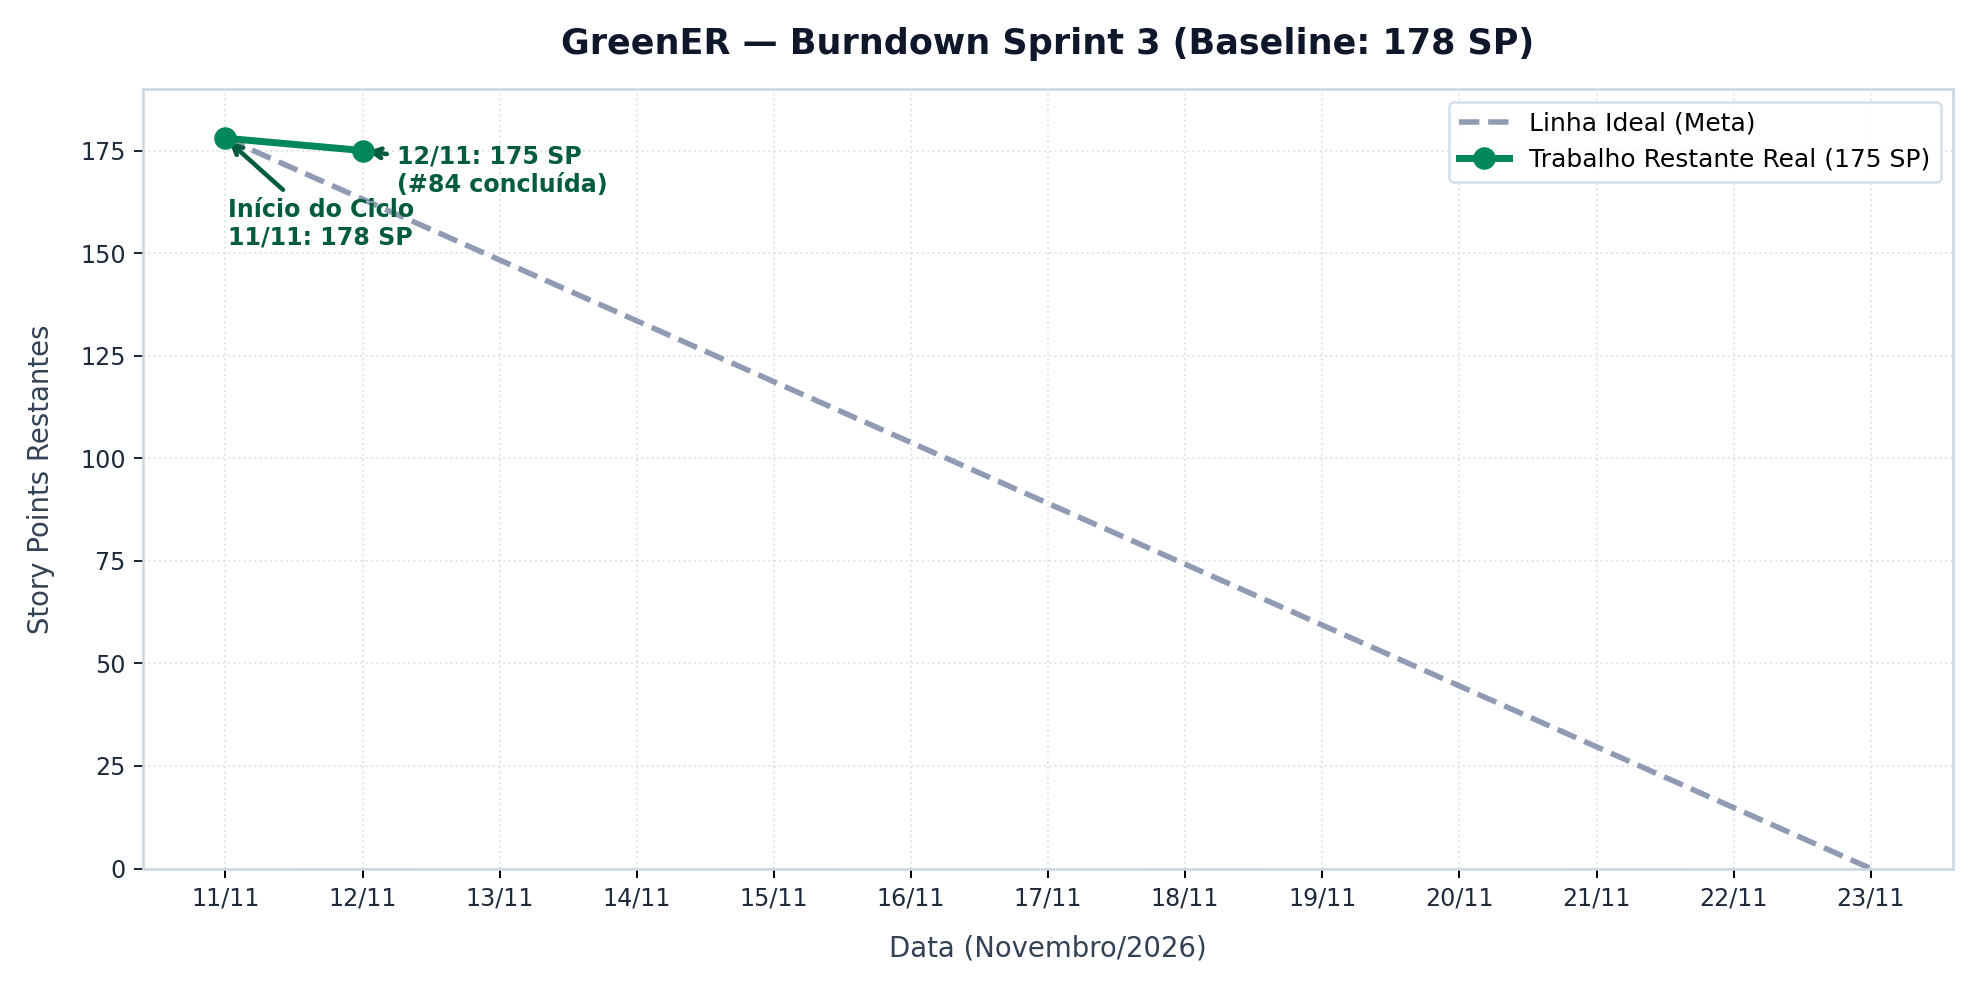
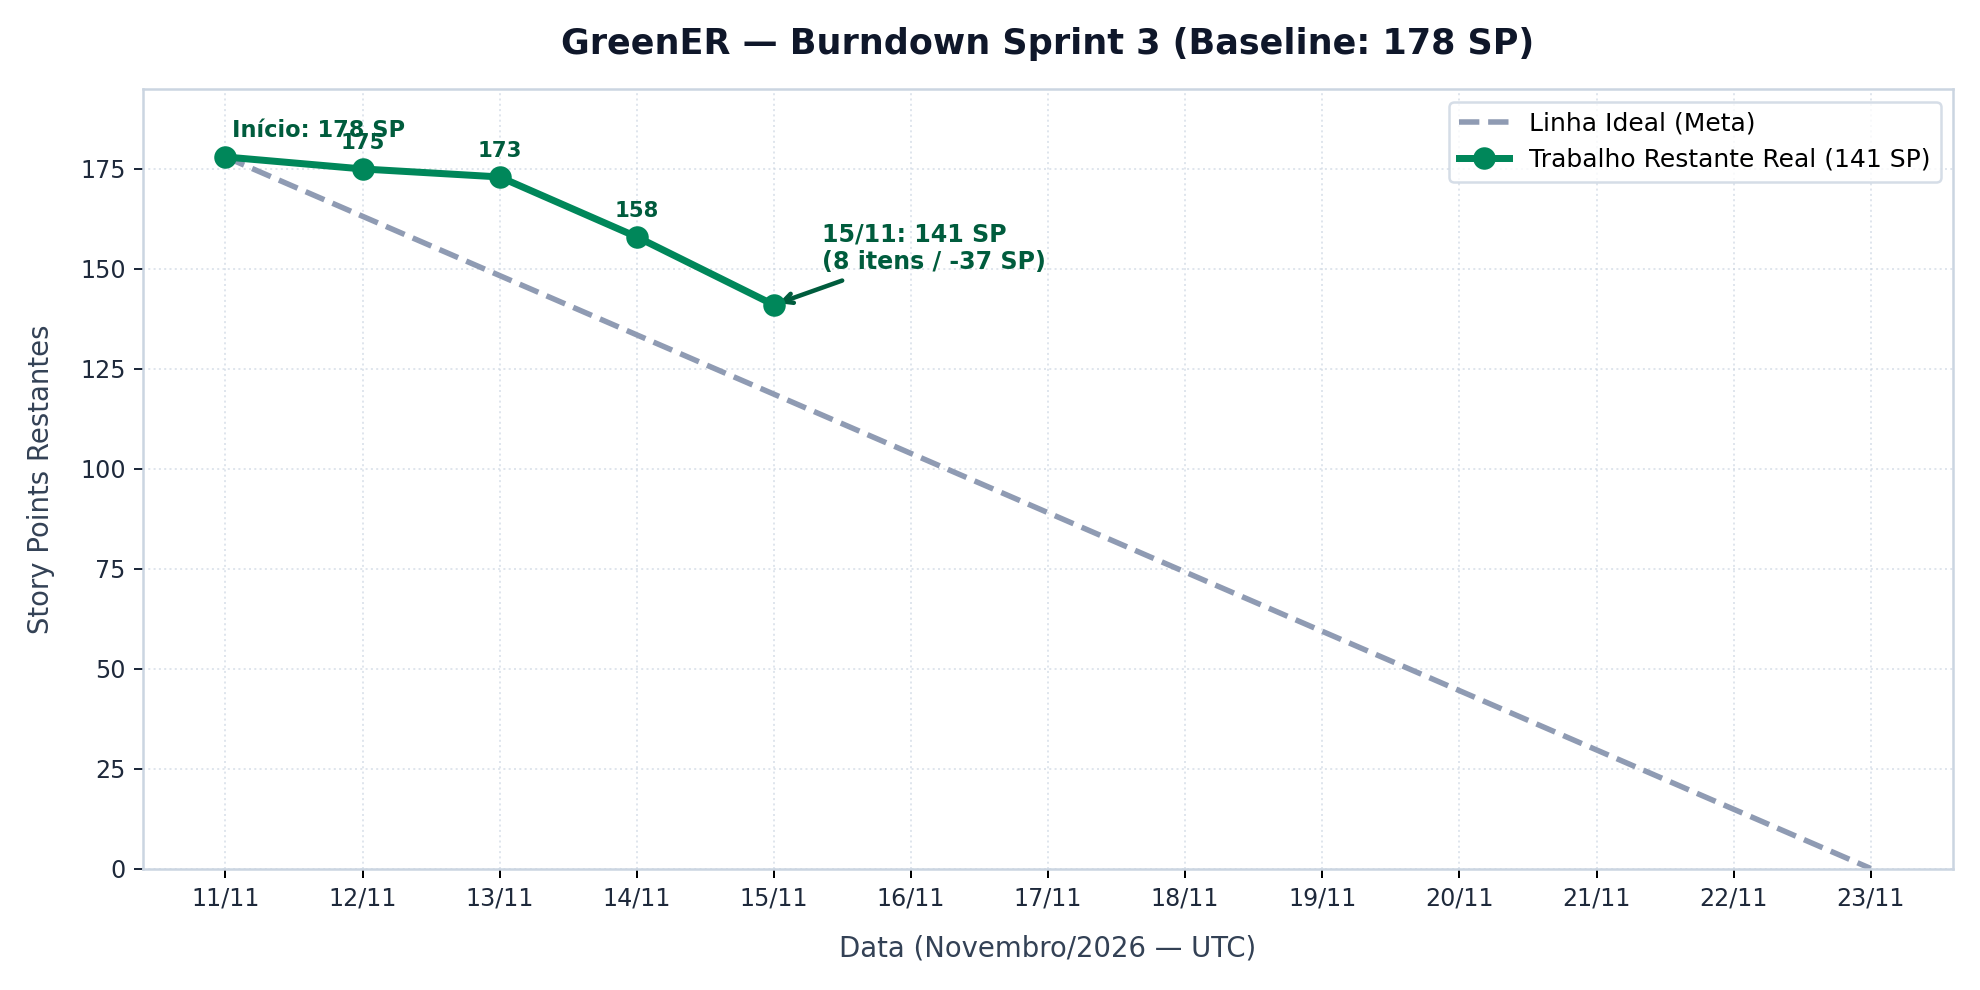
docs(burndown): atualiza burndown para 141 SP e registra TDD na DoD

diff --git a/docs/sprints/sprint-3.md b/docs/sprints/sprint-3.md
@@ -32,20 +32,20 @@ A tabela abaixo lista os 51 itens que compõem o escopo devedor da Sprint 3:
 
 | Issue | Item | SP | Responsável | Epic | Situação |
 | :---: | :--- | :---: | :--- | :--- | :---: |
-| [#79](https://github.com/abpundefined/3DSM-ABP-UNDEFINED/issues/79) | [TASK] Repository para ServicosService | 5 | Pedro Gomes | #37 | Backlog |
+| [#79](https://github.com/abpundefined/3DSM-ABP-UNDEFINED/issues/79) | [TASK] Repository para ServicosService | 5 | Pedro Gomes | #37 | Done |
 | [#84](https://github.com/abpundefined/3DSM-ABP-UNDEFINED/issues/84) | [TASK] Periodização no backend (PeriodoDto) | 3 | Marcus Nascimento | #35 | Done |
-| [#85](https://github.com/abpundefined/3DSM-ABP-UNDEFINED/issues/85) | [TASK] Navegação, rotas e biblioteca de gráficos | 2 | Nadla Ferreira | #35 | Backlog |
-| [#86](https://github.com/abpundefined/3DSM-ABP-UNDEFINED/issues/86) | [TASK] Seletor de período compartilhado (frontend) | 5 | Nadla Ferreira | #35 | Backlog |
-| [#88](https://github.com/abpundefined/3DSM-ABP-UNDEFINED/issues/88) | [TASK] Endpoint GET /ranking | 3 | Marcus Nascimento | #35 | Backlog |
+| [#85](https://github.com/abpundefined/3DSM-ABP-UNDEFINED/issues/85) | [TASK] Navegação, rotas e biblioteca de gráficos | 2 | Nadla Ferreira | #35 | Done |
+| [#86](https://github.com/abpundefined/3DSM-ABP-UNDEFINED/issues/86) | [TASK] Seletor de período compartilhado (frontend) | 5 | Nadla Ferreira | #35 | Done |
+| [#88](https://github.com/abpundefined/3DSM-ABP-UNDEFINED/issues/88) | [TASK] Endpoint GET /ranking | 3 | Marcus Nascimento | #35 | Done |
 | [#91](https://github.com/abpundefined/3DSM-ABP-UNDEFINED/issues/91) | [TASK] Página de ranking | 6 | Nadla Ferreira | #35 | Backlog |
 | [#93](https://github.com/abpundefined/3DSM-ABP-UNDEFINED/issues/93) | [TASK] Endpoint GET /comparacao | 5 | Pedro Gomes | #35 | Backlog |
 | [#94](https://github.com/abpundefined/3DSM-ABP-UNDEFINED/issues/94) | [TASK] Página de comparação | 6 | Thales Cambraia | #35 | Backlog |
-| [#95](https://github.com/abpundefined/3DSM-ABP-UNDEFINED/issues/95) | [TASK] Endpoint GET /mapa | 5 | Israel Lemes | #35 | Backlog |
-| [#96](https://github.com/abpundefined/3DSM-ABP-UNDEFINED/issues/96) | [TASK] Mapa animado no frontend | 9 | Israel Lemes | #35 | Backlog |
+| [#95](https://github.com/abpundefined/3DSM-ABP-UNDEFINED/issues/95) | [TASK] Endpoint GET /mapa | 5 | Israel Lemes | #35 | Done |
+| [#96](https://github.com/abpundefined/3DSM-ABP-UNDEFINED/issues/96) | [TASK] Mapa animado no frontend | 9 | Israel Lemes | #35 | Done |
 | [#98](https://github.com/abpundefined/3DSM-ABP-UNDEFINED/issues/98) | [TASK] Endpoint GET /servicos/:id/historico | 3 | Marcus Nascimento | #33 | Backlog |
 | [#99](https://github.com/abpundefined/3DSM-ABP-UNDEFINED/issues/99) | [TASK] Página de detalhe do serviço | 7 | Rainan Reis | #33 | Backlog |
 | [#80](https://github.com/abpundefined/3DSM-ABP-UNDEFINED/issues/80) | [TASK] Paginação do GET /coletas | 3 | Pedro Gomes | #33 | Backlog |
-| [#78](https://github.com/abpundefined/3DSM-ABP-UNDEFINED/issues/78) | [PBI] Página de administração dos intervalos (frontend) | 5 | Nadla Ferreira | #36 | Backlog |
+| [#78](https://github.com/abpundefined/3DSM-ABP-UNDEFINED/issues/78) | [PBI] Página de administração dos intervalos (frontend) | 5 | Nadla Ferreira | #36 | Done |
 | [#81](https://github.com/abpundefined/3DSM-ABP-UNDEFINED/issues/81) | [PBI] Avaliação heurística e avaliação com usuários (IHC05/IHC06) | 8 | Thales Cambraia | #37 | Backlog |
 | [#101](https://github.com/abpundefined/3DSM-ABP-UNDEFINED/issues/101) | [PBI-26] Melhorias de usabilidade (P01 a P08) | 8 | Thales Cambraia | #37 | Backlog |
 | [#103](https://github.com/abpundefined/3DSM-ABP-UNDEFINED/issues/103) | [TASK] Cobertura de 80% em todos os services e repositories | 3 | Marcus Nascimento | #37 | Backlog |
@@ -136,5 +136,5 @@ O acompanhamento diário da queima de Story Points inicia-se em **11/11/2026** c
 
 ### Regras de Processo e Fechamento
 1. **Fluxo Contínuo de PRs:** submeter PRs pequenos e contínuos logo após a conclusão das tarefas, evitando acúmulo no final do ciclo;
-2. **Critérios de Qualidade (DoD):** todo PR deve conter testes unitários/E2E com cobertura, passar nos jobs de lint/typecheck/build no GitHub Actions e receber aprovação de ao menos um revisor;
+2. **Critérios de Qualidade (DoD):** adotar **TDD (Test-Driven Development)** no desenvolvimento de funcionalidades e correções (testes unitários e/ou E2E com Axe escritos antes ou guiando a implementação, com cobertura verificada), passar nos jobs de lint, formatação (`format:check`), typecheck, testes e build no GitHub Actions e receber aprovação de ao menos um revisor;
 3. **Baixa de Pontos:** exclusivamente após o merge na `develop` e o fechamento da issue correspondente no GitHub.

diff --git a/docs/burndown-sprint-3.md b/docs/burndown-sprint-3.md
@@ -29,3 +29,6 @@ A baixa de pontos no burndown segue estritamente o critério de **aceite e fecha
 ### Linha do Tempo (Datas UTC):
 - **11/11/2026 (Início do Ciclo):** 178 SP restantes (51 itens comprometidos abertos).
 - **12/11/2026:** 175 SP restantes (1 item concluído: [#84](https://github.com/abpundefined/3DSM-ABP-UNDEFINED/issues/84) — 3 SP, via PR [#160](https://github.com/abpundefined/3DSM-ABP-UNDEFINED/pull/160)).
+- **13/11/2026:** 173 SP restantes (+1 item concluído: [#85](https://github.com/abpundefined/3DSM-ABP-UNDEFINED/issues/85) — 2 SP, via PR [#162](https://github.com/abpundefined/3DSM-ABP-UNDEFINED/pull/162)).
+- **14/11/2026:** 158 SP restantes (+3 itens concluídos: [#95](https://github.com/abpundefined/3DSM-ABP-UNDEFINED/issues/95) — 5 SP via PR [#163](https://github.com/abpundefined/3DSM-ABP-UNDEFINED/pull/163); [#79](https://github.com/abpundefined/3DSM-ABP-UNDEFINED/issues/79) — 5 SP via PR [#164](https://github.com/abpundefined/3DSM-ABP-UNDEFINED/pull/164); [#86](https://github.com/abpundefined/3DSM-ABP-UNDEFINED/issues/86) — 5 SP via PR [#165](https://github.com/abpundefined/3DSM-ABP-UNDEFINED/pull/165)).
+- **15/11/2026:** 141 SP restantes (+3 itens concluídos: [#96](https://github.com/abpundefined/3DSM-ABP-UNDEFINED/issues/96) — 9 SP via PR [#170](https://github.com/abpundefined/3DSM-ABP-UNDEFINED/pull/170); [#88](https://github.com/abpundefined/3DSM-ABP-UNDEFINED/issues/88) — 3 SP via PR [#169](https://github.com/abpundefined/3DSM-ABP-UNDEFINED/pull/169); [#78](https://github.com/abpundefined/3DSM-ABP-UNDEFINED/issues/78) — 5 SP via PR [#171](https://github.com/abpundefined/3DSM-ABP-UNDEFINED/pull/171)). Acumulado: 8 itens concluídos (37 SP entregues).
